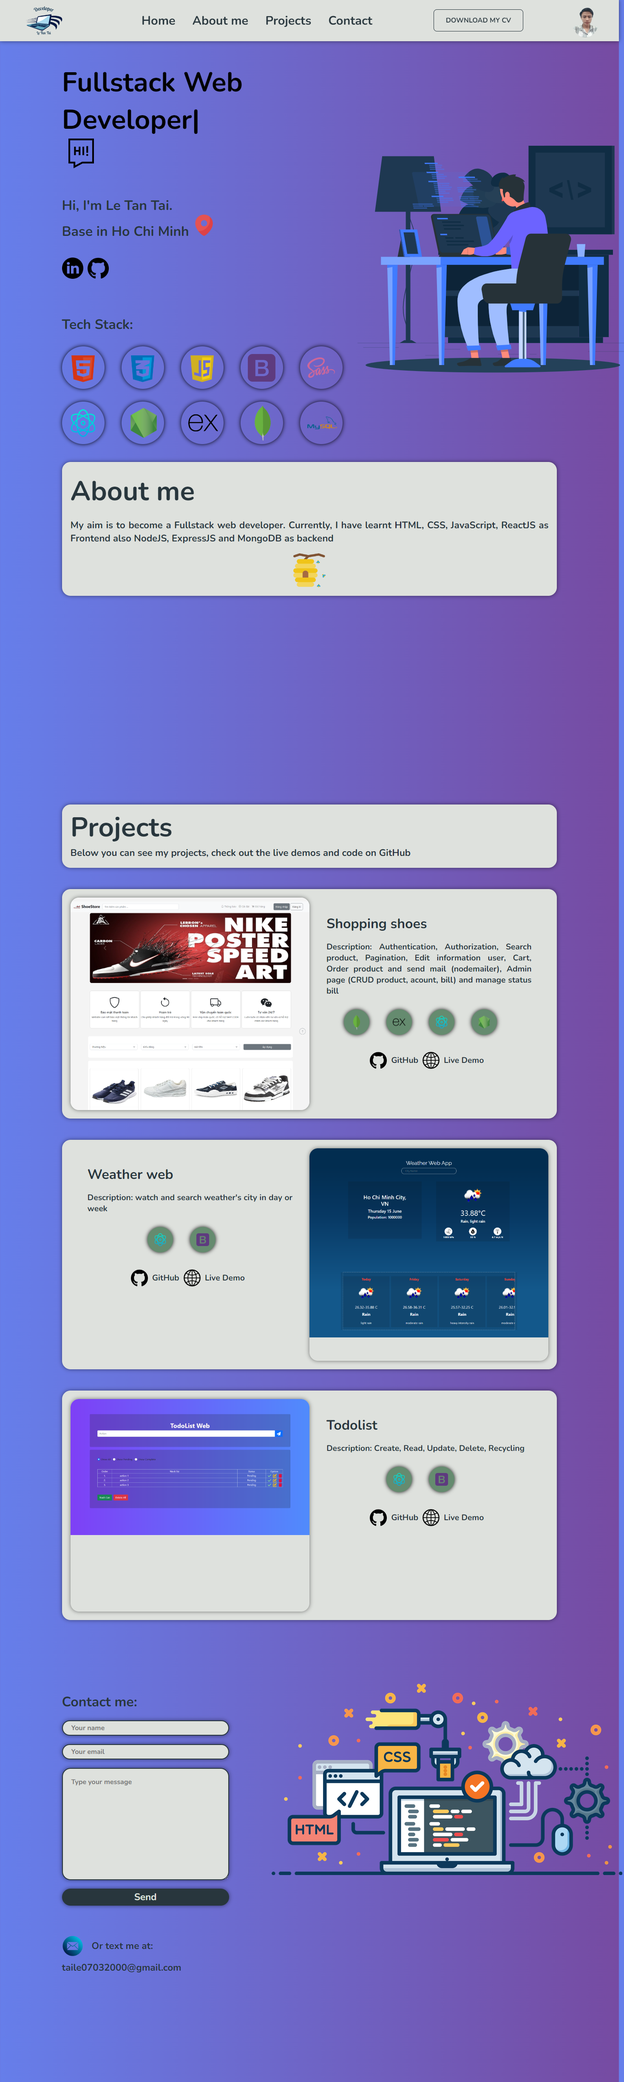
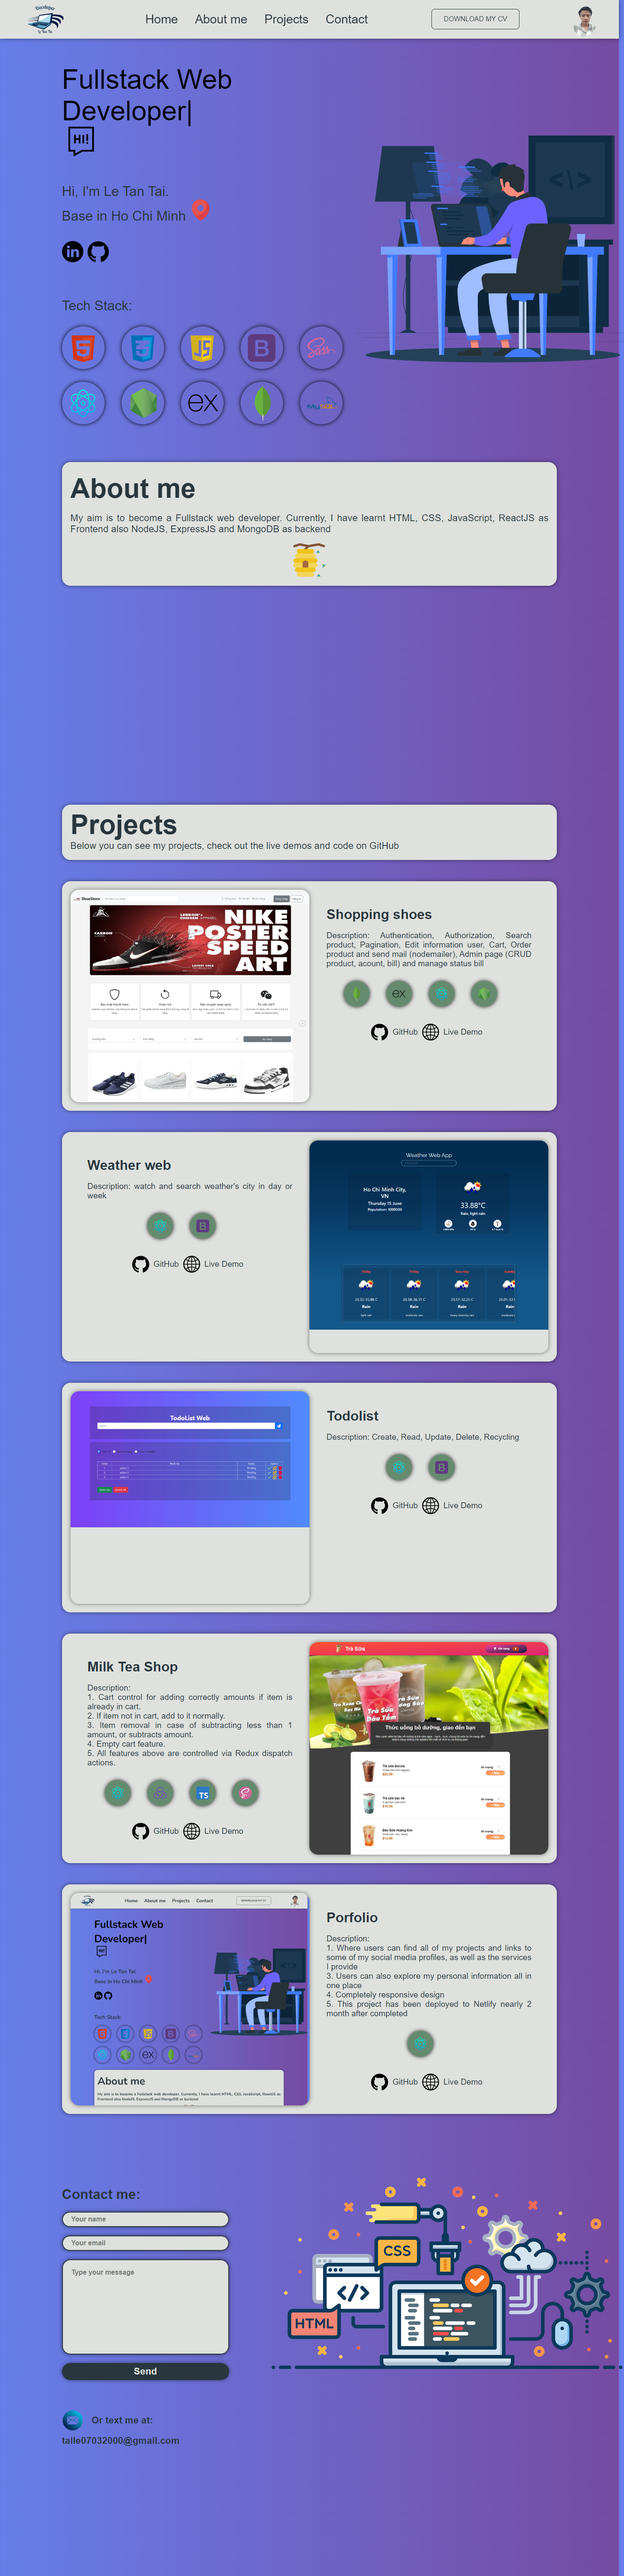
update

diff --git a/src/components/Project4.js b/src/components/Project4.js
@@ -1,0 +1,57 @@
+import React, { useState } from "react";
+import page4 from "../public/img/page4.png";
+import redux from "../public/img/redux.png";
+import reactIco from "../public/img/react.png";
+import gitIco from "../public/img/githubIco.png";
+import sass from "../public/img/sass.png";
+
+export default function Project4() {
+
+  return (
+    <div className="project-box">
+      <div className="right-container">
+        <h1>Milk Tea Shop</h1>
+        <div className="description">
+          Description:<br/> 
+            1. Cart control for adding correctly amounts if item is already in cart.<br/> 
+            2. If item not in cart, add to it normally.<br/> 
+            3. Item removal in case of subtracting less than 1 amount, or subtracts amount.<br/> 
+            4. Empty cart feature.<br/> 
+            5. All features above are controlled via Redux dispatch actions.<br/> 
+          <div className="tech-box">
+            <div className="single-box">
+              <img src={reactIco} className="tech-ico" alt="html icon" />
+            </div>
+            <div className="single-box">
+              <img src={redux} className="tech-ico" alt="css icon" />
+            </div>
+            <div className="single-box">
+              <img src='https://upload.wikimedia.org/wikipedia/commons/thumb/4/4c/Typescript_logo_2020.svg/1200px-Typescript_logo_2020.svg.png' className="tech-ico" alt="css icon" />
+            </div>
+            <div className="single-box">
+              <img src={sass} className="tech-ico" alt="css icon" />
+            </div>
+          </div>
+          <div className="links">
+            <a href="https://github.com/letantai3001180588/MilkTeaOrder" target="_blank">
+              <img src={gitIco} className="liveIco" alt="github icon" />
+              <span>GitHub</span>
+            </a>
+            <a href="https://milk-tea-shop-yvuk.onrender.com/" target="_blank">
+              <img
+                src='https://www.freepnglogos.com/uploads/logo-website-png/logo-website-file-globe-icon-svg-wikimedia-commons-21.png'
+                className="liveIco"
+                target="blank"
+                alt="live icon"
+              />
+              <span>Live Demo</span>
+            </a>
+          </div>
+        </div>
+      </div>
+      <div className="left-container">
+        <img src={page4} className="img-project2" />
+      </div>
+    </div>
+  );
+}

diff --git a/src/components/Project5.js b/src/components/Project5.js
@@ -1,0 +1,42 @@
+import React, { useState } from "react";
+import porfolio from "../public/img/porfolio.png";
+import reactIco from "../public/img/react.png";
+import gitIco from "../public/img/githubIco.png";
+
+export default function Project5() {
+
+  return (
+    <div className="project-box">
+      <div className="left-container">
+        <img src={porfolio} className="img-project1" />
+      </div>
+      <div className="right-container">
+        <h1>Porfolio</h1>
+        <div className="description">
+          Description:<br/>
+            1. Where users can find all of my projects and links to some of my social media profiles, as well as the services I provide<br/>
+            3. Users can also explore my personal information all in one place<br/>
+            4. Completely responsive design<br/>
+            5. This project has been deployed to Netlify nearly 2 month after completed<br/>
+
+          <div className="tech-box">
+          <div className="single-box">
+              <img src={reactIco} className="tech-ico" />
+            </div>
+          </div>
+          
+          <div className="links">
+            <a href="https://github.com/letantai3001180588/portfolio-main" target="_blank">
+              <img src={gitIco} className="liveIco" alt="github icon" />
+              <span>GitHub</span>
+            </a>
+            <a href="https://porfolio-letantai.onrender.com/" target="_blank">
+              <img src='https://www.freepnglogos.com/uploads/logo-website-png/logo-website-file-globe-icon-svg-wikimedia-commons-21.png' className="liveIco" />
+              <span>Live Demo</span>
+            </a>
+          </div>
+        </div>
+      </div>
+    </div>
+  );
+}

diff --git a/src/components/Projects.js b/src/components/Projects.js
@@ -2,6 +2,8 @@ import React from "react";
 import Project1 from "./Project1";
 import Project2 from "./Project2";
 import Project3 from "./Project3";
+import Project4 from "./Project4";
+import Project5 from "./Project5";
 // import MiniProjects from "./MiniProjects";
 
 export default function Projects() {
@@ -16,6 +18,8 @@ export default function Projects() {
           </span>
         </div>
         <Project1 />
+        <Project4 />
+        <Project5 />
         <Project2 />
         <Project3 />
         {/* <div className="project-title mini">
